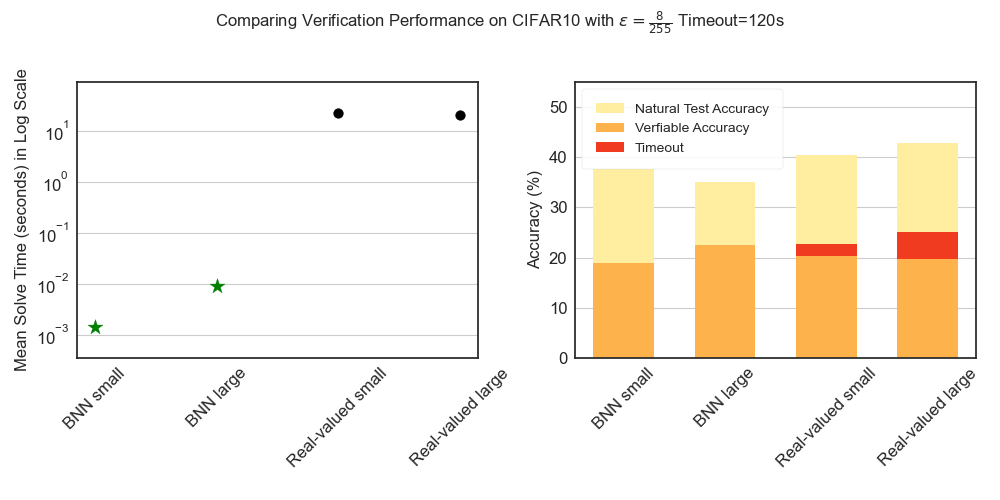
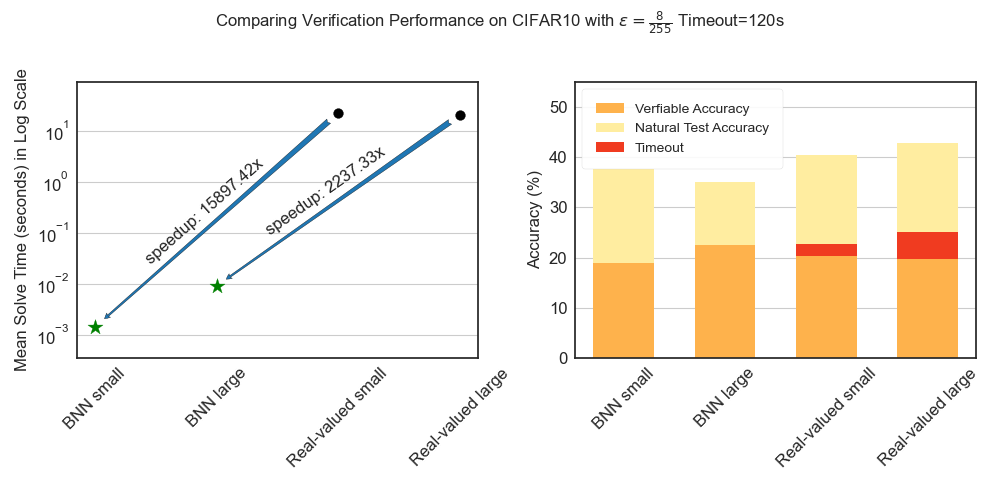
update README and gen_paper_fig

diff --git a/gen_paper_fig.py b/gen_paper_fig.py
@@ -578,11 +578,11 @@ class Experiments:
             fout.write(latex)
 
     def gen_fig_cmp_minisat(self):
-        METHODS = ['Z3 (sub40)',
-                   'MiniSat-seqcnt (sub40)', 'MiniSat-cardnet (sub40)',
-                   'RoundingSat (sub40)', 'Ours: MiniSatCS (sub40)',
-                   'Ours: MiniSatCS (full)',
-                   'Narodytska et al. (sub100)']
+        METHODS = [
+            'Ours: MiniSatCS (full)', 'Ours: MiniSatCS (sub40)',
+            'MiniSat-seqcnt (sub40)', 'MiniSat-cardnet (sub40)',
+            'Z3 (sub40)', 'RoundingSat (sub40)', 'Narodytska et al. (sub100)'
+        ]
         TIME_narodytska2020in = FloatValue(5.1, 3)
         EPS_DISP = ['20/255', '0.3']
         EPS_FILE = [ADV20_255, '0.3']
@@ -604,16 +604,16 @@ class Experiments:
             xmin = []
             xmax = []
             for meth_i, meth in enumerate(
-                    ['z3', 'm22', 'm22-cardnet', 'pb',
-                     'minisatcs', 'minisatcs']):
+                    ['minisatcs', 'minisatcs',
+                     'm22', 'm22-cardnet', 'z3', 'pb']):
                 solver_st = exp.solver_stats(eps, meth,
-                                             use_subset=(meth_i != NR_CMP-1))
+                                             use_subset=(meth_i != 0))
                 xmean.append(solver_st.solve_time.vnum)
                 xmin.append(solver_st.solve_time_min.vnum)
                 xmax.append(solver_st.solve_time_max.vnum)
                 xmid.append(solver_st.solve_time_mid.vnum)
 
-                if not self.args.add_unfinished and meth_i != NR_CMP-1:
+                if not self.args.add_unfinished and meth_i != 0:
                     if solver_test_size is None:
                         solver_test_size = solver_st.num
                     assert solver_test_size == solver_st.num, (
@@ -621,9 +621,9 @@ class Experiments:
 
             ycoord = np.arange(NR_CMP, dtype=np.float32)
             if eps_i == 0:
-                ycoord -= 0.1
+                ycoord -= 0.15
             else:
-                ycoord += 0.1
+                ycoord += 0.15
 
             xmean, xmin, xmax = map(np.array, [xmean, xmin, xmax])
 
@@ -819,6 +819,25 @@ class Experiments:
         ax0.set_yscale('log')
         ax0.set_ylim(min(ys) / 4, max(ys) * 4)
         ax0.grid(which='major', axis='y')
+        tx0 = [None, None]
+        for i in range(2):
+            dx = (xs[2+i]-xs[i])*0.03
+            dy = np.exp((np.log(ys[2+i]) - np.log(ys[i]))*0.03)
+            ax0.annotate(
+                '',
+                xy=(xs[i]+dx, ys[i]*dy), xycoords='data',
+                xytext=(xs[2+i]-dx, ys[2+i]/dy), textcoords='data',
+                arrowprops=dict(
+                    arrowstyle='fancy',
+                )
+            )
+            tx0[i] = ax0.text(
+                (xs[0+i]+xs[2+i]) / 2 - 0.1,
+                np.sqrt(ys[0+i]*ys[2+i]) * 1.5,
+                f"speedup: {ys[2+i]/ys[0+i]:.2f}x",
+                ha='center', va='center',
+                size='large',
+            )
 
         colors = ['#ffeda0', '#feb24c', '#f03b20']
         ys0 = make_y(lambda x: x.robust_prob.vnum, 'prov_acc', 100)
@@ -833,13 +852,24 @@ class Experiments:
                 color=colors[2])
         ax1.set_ylabel('Accuracy (%)')
         ax1.grid(which='major', axis='y')
-        ax1.legend(loc='upper left', fancybox=True, framealpha=0.9,
-                   borderpad=1, frameon=True)
         ax1.set_ylim(0, 55)
+        handles, labels = ax1.get_legend_handles_labels()
+        _, handles, labels = zip(*sorted(zip([1, 0, 2],
+                                             handles, labels)))
+        ax1.legend(handles, labels,
+                   loc='upper left', fancybox=True, framealpha=0.9,
+                   borderpad=1, frameon=True)
 
         fig.suptitle(r'Comparing Verification Performance on CIFAR10 '
                      r'with $\epsilon=\frac{8}{255}$ Timeout=120s')
         fig.tight_layout(rect=[0, 0.03, 1, 0.95])
+
+        for i in range(2):
+            sp1 = ax0.transData.transform_point(np.array([xs[i], ys[i]]))
+            sp2 = ax0.transData.transform_point(np.array([xs[2+i], ys[2+i]]))
+            tx0[i].set_rotation(np.degrees(np.arctan2(
+                sp2[1] - sp1[1], sp2[0] - sp1[0])))
+
         for ext in ['png', 'pdf']:
             fig.savefig(str(self.out_dir / f'fig-cmp-singledset.{ext}'),
                         metadata={'CreationDate': None})
@@ -1487,6 +1517,8 @@ def main():
     parser.add_argument(
         '--data', default=default_dataset_root(),
         help='dir for training data')
+    parser.add_argument('-f', '--filter',
+                        help='regular expressions to filter the generators')
     args = parser.parse_args()
 
     ensure_dir(args.out_dir)
@@ -1496,12 +1528,14 @@ def main():
     exp = Experiments(args)
     for i in dir(exp):
         if i.startswith('gen_'):
+            if args.filter and not re.search(args.filter, i):
+                continue
             print(f'executing {i}() ...')
             getattr(exp, i)()
     exp.write_latex_defs()
     print(f'all tested cases: {g_possible_tested_cases}')
     if not args.add_unfinished:
-        assert len(g_possible_tested_cases) == 2
+        assert len(g_possible_tested_cases) == 2 or args.filter
 
     exp.print_unused_experiments()
 

diff --git a/README.md b/README.md
@@ -1,8 +1,15 @@
 # Efficient Exact Verification of Binarized Neural Networks
 
 This repository is the official implementation of
-[EEV](https://arxiv.org/abs/2005.03597), a system for efficient, complete, and
-sound verification of binarized neural networks.
+[EEV](https://arxiv.org/abs/2005.03597), a system for efficient and exact
+(complete and sound) verification of binarized neural networks.
+
+Verifiers that claim to be exact for real-valued neural networks are
+fundamentally incorrect due to floating point errors, which can be [exploited to
+invalidate their verification results in practice](https://github.com/jia-kai/realadv).
+We present the **first** exact verification results with **guaranteed
+correctness** for adversarial robustness of neural networks on MNIST and
+CIFAR10.
 
 Our main contributions:
 
@@ -68,6 +75,8 @@ ModelVerifier` in [eevbnn/eval_bin.py](eevbnn/eval_bin.py).  The pretrained
 models can be downloaded [here](https://www.dropbox.com/s/xfpiw7o3r841acr/output-0527.tar.xz?dl=0).
 To run the verifier:
 ```sh
+# Download and extract the pretrained models
+
 # verifying with MiniSatCS and eps=0.08
 python -m eevbnn eval_bin -e 0.08 output-0527/mnist-mlp/last.pth
 
@@ -89,6 +98,10 @@ To reproduce the results in the paper:
 3. Run `./attack_all_parallel.sh workdir` run the PGD attack.
 4. Run `./gen_paper_fig.py workdir workdir/fig` to generate the figures, tables,
    and numbers reported in the paper.
+
+Note that the `train_all_parallel.sh` and `eval_all_parallel.sh` scripts are
+designed to be interruptible. Running the scripts again with the same `workdir`
+would continue from previous checkpoints.
 
 
 # Citation
